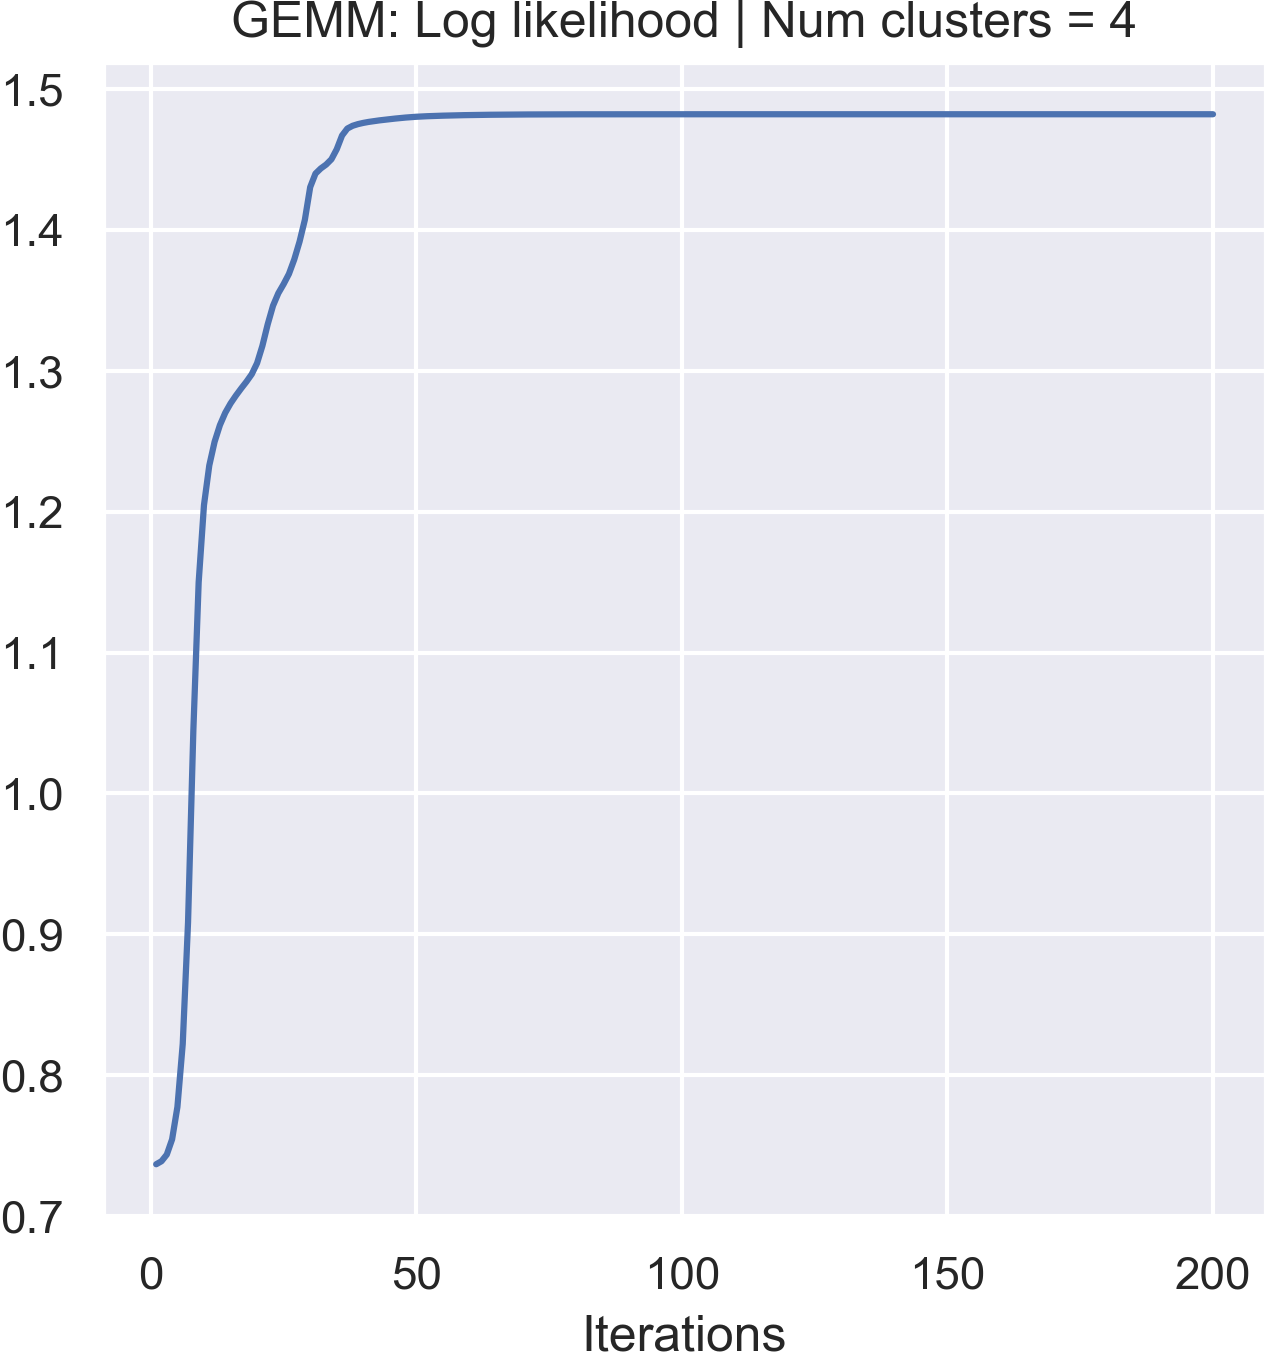
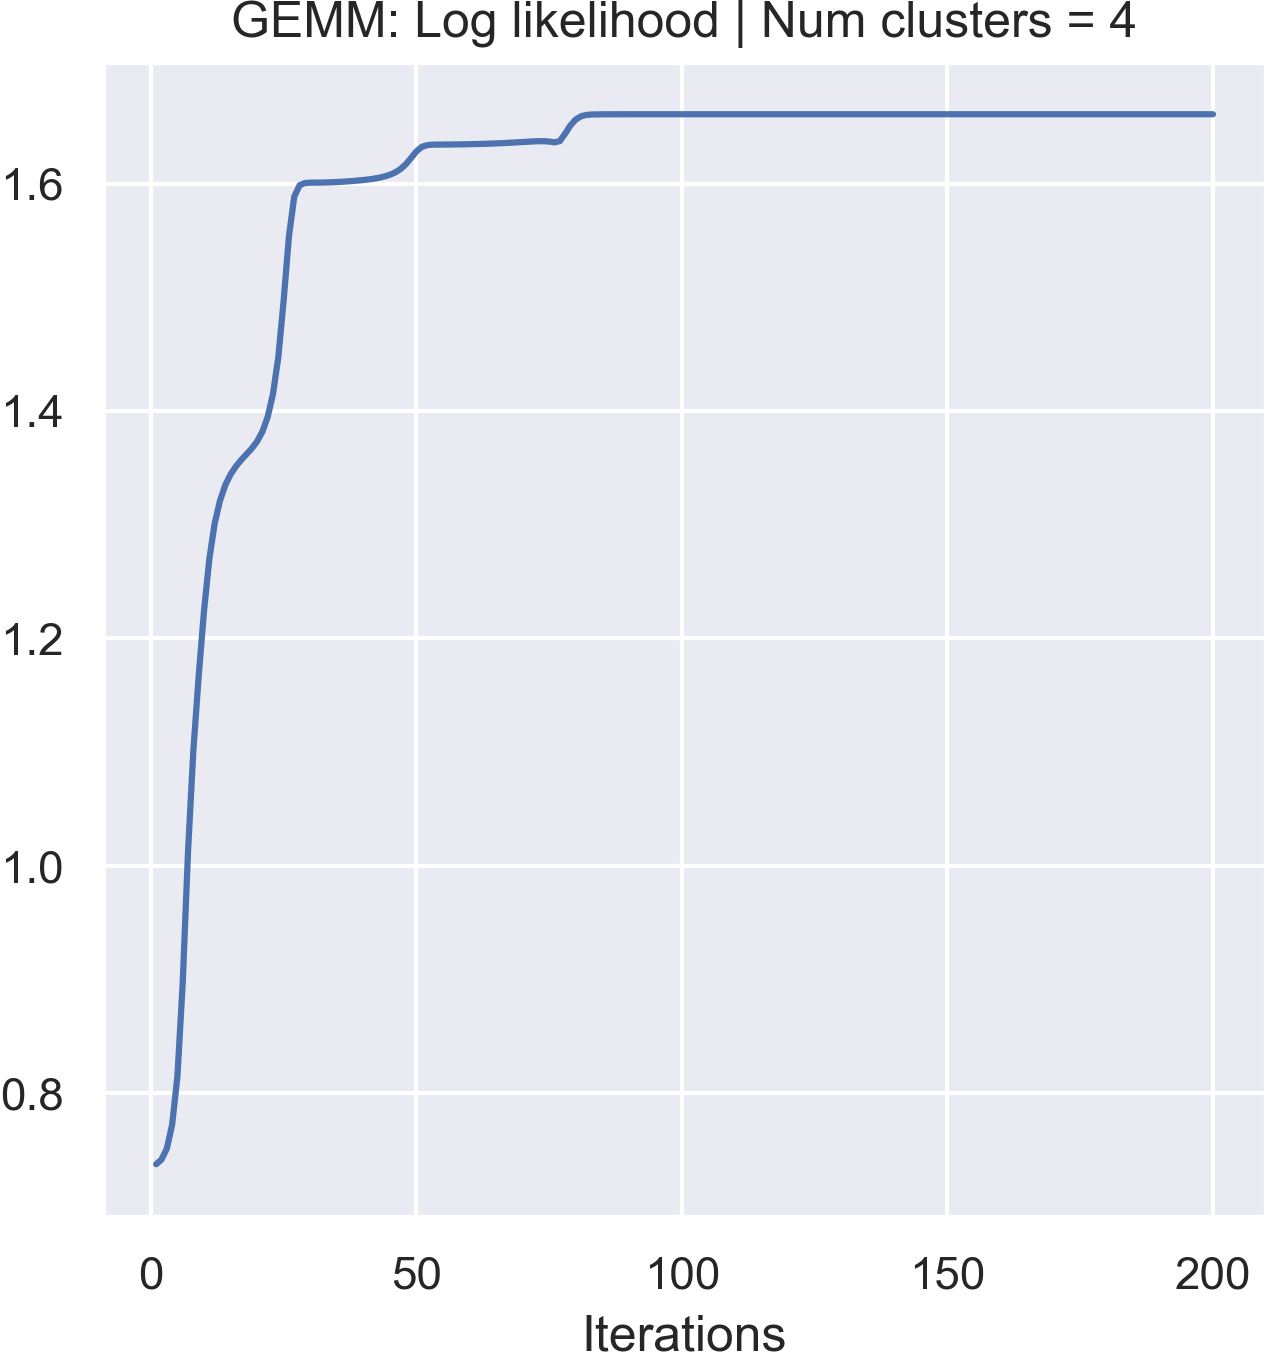
Update: Data normalized, GEMM need further check

diff --git a/midterm_takehome/data/read_data.py b/midterm_takehome/data/read_data.py
@@ -21,6 +21,9 @@ def main():
     gender[gender=='Female'] = 2.
     data[:,0] = gender
 
+    for ii in range(data.shape[1]):
+        data[:, ii] = data[:, ii] / np.max(data[:, ii])
+
     
     np.save('./customer_data.npy', data)
 
